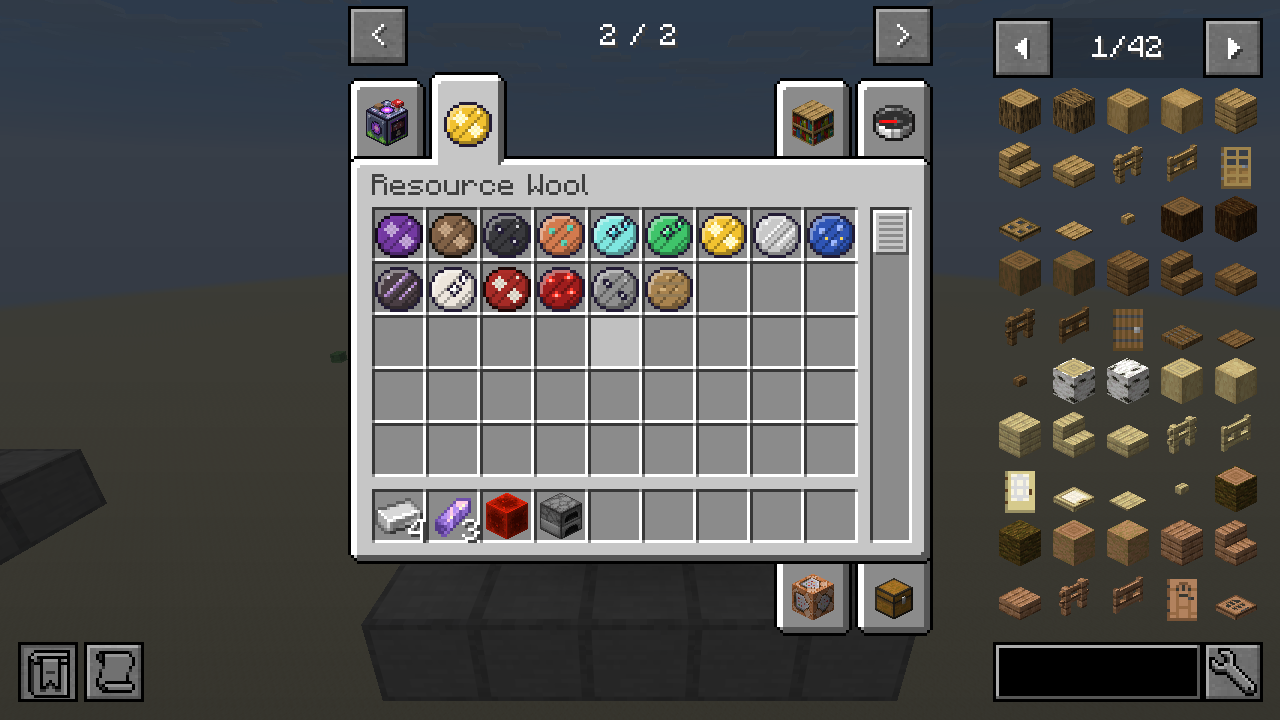
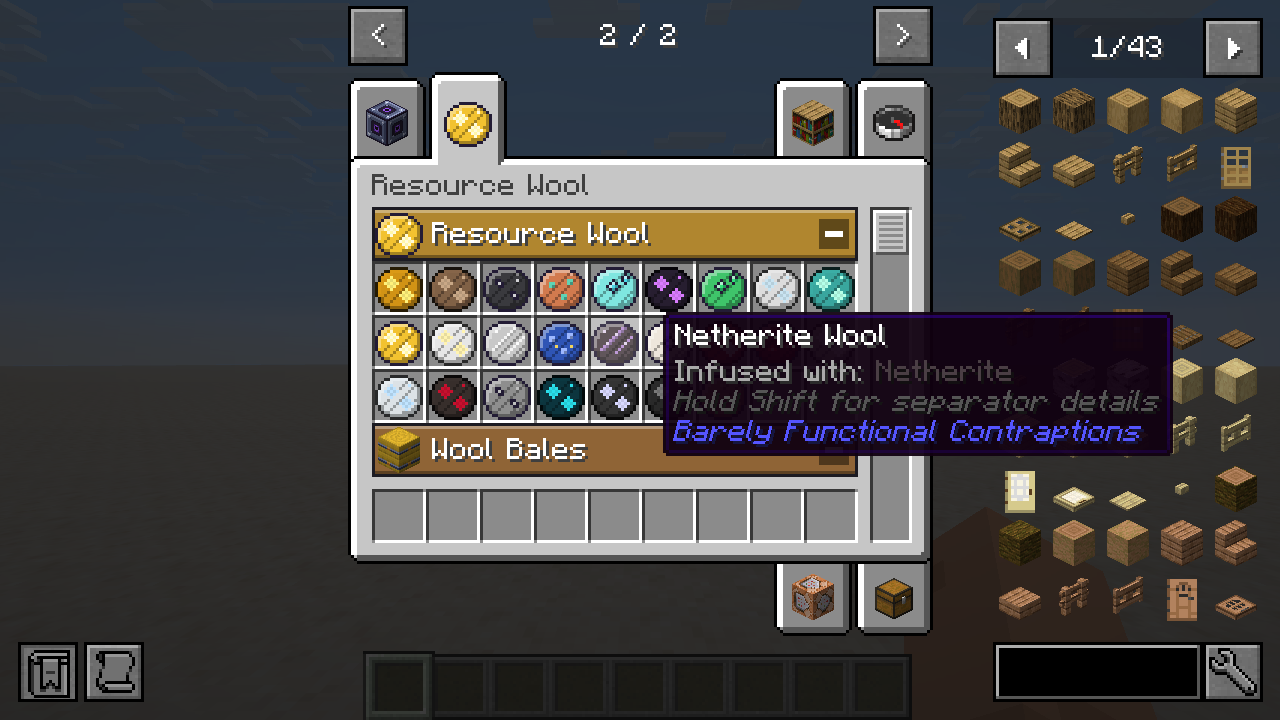
Split the Resource Wool tab into wool, bales and spawn eggs
Each under its own folding banner, like the main tab's sections. The
section code now handles any tab; the creative tab test checks both tabs'
sections and that they fill whole rows.

Claude-Session: https://claude.ai/code/session_012iurxobutw9xMP3SqHHLFE

diff --git a/src/main/java/com/jax3/barelyfunctionalcontraptions/registry/ContraptionsCreativeTab.java b/src/main/java/com/jax3/barelyfunctionalcontraptions/registry/ContraptionsCreativeTab.java
@@ -14,7 +14,7 @@ import net.minecraft.world.item.CreativeModeTabs;
 import net.minecraft.world.item.ItemStack;
 import net.neoforged.neoforge.registries.DeferredRegister;
 
-/** The mod's creative tabs: machines and tools in the manual's sections, then all the resource wool, Wool Bales and resource sheep spawn eggs. */
+/** The mod's creative tabs: machines and tools in the manual's sections, then all the resource wool, Wool Bales and resource sheep spawn eggs, each in its own section. */
 public final class ContraptionsCreativeTab {
     public static final DeferredRegister<CreativeModeTab> REGISTER = DeferredRegister.create(Registries.CREATIVE_MODE_TAB, BarelyFunctionalContraptions.MOD_ID);
 
@@ -25,10 +25,25 @@ public final class ContraptionsCreativeTab {
      * to the end of the row so the next section starts on a new row. The client draws the banners and lets them fold
      * the section away ({@code CreativeTabSections}).
      */
-    public record Section(String key, Supplier<ItemStack> icon, Supplier<List<ItemStack>> items) {
-        /** The section's title: the Contraptions Manual tab of the same name. */
+    public record Section(String key, String titleKey, int colour, Supplier<ItemStack> icon, Supplier<List<ItemStack>> items) {
         public Component title() {
-            return Component.translatable("guide.barelyfunctionalcontraptions.tab." + key);
+            return Component.translatable(titleKey);
+        }
+    }
+
+    /** A main tab section, titled after the Contraptions Manual tab of the same name. */
+    private static Section guide(String key, int colour, Supplier<ItemStack> icon, Supplier<List<ItemStack>> items) {
+        return new Section(key, "guide.barelyfunctionalcontraptions.tab." + key, colour, icon, items);
+    }
+
+    /** Puts the sections in a tab: each one's banner row, its items, then blanks to the end of the row. */
+    private static void accept(CreativeModeTab.Output output, List<Section> sections) {
+        int blanks = 0;
+        for (Section section : sections) {
+            for (int column = 0; column < ROW; column++) output.accept(placeholder(section.key(), column), CreativeModeTab.TabVisibility.PARENT_TAB_ONLY);
+            List<ItemStack> items = section.items().get();
+            items.forEach(output::accept);
+            for (int i = items.size(); i % ROW != 0; i++) output.accept(placeholder("", blanks++), CreativeModeTab.TabVisibility.PARENT_TAB_ONLY);
         }
     }
 
@@ -38,7 +53,7 @@ public final class ContraptionsCreativeTab {
 
     /** The main tab's sections, as the Contraptions Manual sorts the machines. */
     public static final List<Section> SECTIONS = List.of(
-            new Section("power", () -> new ItemStack(com.jax3.barelyfunctionalcontraptions.sheep.registry.ModItems.HUME_ENERGY_CUBE.get()), items(
+            guide("power", 0xFFB8792A, () -> new ItemStack(com.jax3.barelyfunctionalcontraptions.sheep.registry.ModItems.HUME_ENERGY_CUBE.get()), items(
                     com.jax3.barelyfunctionalcontraptions.sheep.registry.ModItems.GLOW_PANEL,
                     com.jax3.barelyfunctionalcontraptions.sheep.registry.ModItems.GLOW_LAMP,
                     com.jax3.barelyfunctionalcontraptions.sheep.registry.ModItems.WOOL_BURNER,
@@ -47,21 +62,21 @@ public final class ContraptionsCreativeTab {
                     com.jax3.barelyfunctionalcontraptions.sheep.registry.ModItems.ZERO_POINT_ENERGY_MODULE,
                     com.jax3.barelyfunctionalcontraptions.sheep.registry.ModItems.HUME_ENERGY_CUBE,
                     com.jax3.barelyfunctionalcontraptions.sheep.registry.ModItems.CREATIVE_GENERATOR)),
-            new Section("logistics", () -> new ItemStack(com.jax3.barelyfunctionalcontraptions.sheep.registry.ModItems.ITEM_PIPE.get()), items(
+            guide("logistics", 0xFF2E86A0, () -> new ItemStack(com.jax3.barelyfunctionalcontraptions.sheep.registry.ModItems.ITEM_PIPE.get()), items(
                     com.jax3.barelyfunctionalcontraptions.sheep.registry.ModItems.ENERGY_CABLE,
                     com.jax3.barelyfunctionalcontraptions.sheep.registry.ModItems.ENERGY_METER,
                     com.jax3.barelyfunctionalcontraptions.sheep.registry.ModItems.FLUID_TANK,
                     com.jax3.barelyfunctionalcontraptions.sheep.registry.ModItems.FLUID_PIPE,
                     com.jax3.barelyfunctionalcontraptions.sheep.registry.ModItems.ITEM_PIPE,
                     com.jax3.barelyfunctionalcontraptions.sheep.registry.ModItems.WOOL_PACKER)),
-            new Section("production", () -> new ItemStack(com.jax3.barelyfunctionalcontraptions.sheep.registry.ModItems.MECHANICAL_SEPARATOR.get()), items(
+            guide("production", 0xFF468F46, () -> new ItemStack(com.jax3.barelyfunctionalcontraptions.sheep.registry.ModItems.MECHANICAL_SEPARATOR.get()), items(
                     com.jax3.barelyfunctionalcontraptions.sheep.registry.ModItems.INFUSION_ALTAR,
                     com.jax3.barelyfunctionalcontraptions.sheep.registry.ModItems.POWERED_FURNACE,
                     com.jax3.barelyfunctionalcontraptions.sheep.registry.ModItems.CHILLER,
                     com.jax3.barelyfunctionalcontraptions.sheep.registry.ModItems.MECHANICAL_SEPARATOR,
                     com.jax3.barelyfunctionalcontraptions.sheep.registry.ModItems.AUTOMATIC_SHEARS,
                     com.jax3.barelyfunctionalcontraptions.sheep.registry.ModItems.FLUID_RESERVOIR)),
-            new Section("utility", () -> new ItemStack(com.jax3.barelyfunctionalcontraptions.mycelial.registry.ModItems.MYCELIUM_WRENCH.get()), items(
+            guide("utility", 0xFF7552AE, () -> new ItemStack(com.jax3.barelyfunctionalcontraptions.mycelial.registry.ModItems.MYCELIUM_WRENCH.get()), items(
                     com.jax3.barelyfunctionalcontraptions.sheep.registry.ModItems.CONTRAPTIONS_MANUAL,
                     com.jax3.barelyfunctionalcontraptions.sheep.registry.ModItems.FUNCTIONAL_MACHINE_BLOCK,
                     com.jax3.barelyfunctionalcontraptions.mycelial.registry.ModItems.MYCELIUM_WRENCH,
@@ -70,6 +85,30 @@ public final class ContraptionsCreativeTab {
                     com.jax3.barelyfunctionalcontraptions.sheep.registry.ModItems.WOOLLEN_CHESTPLATE,
                     com.jax3.barelyfunctionalcontraptions.sheep.registry.ModItems.WOOLLEN_LEGGINGS,
                     com.jax3.barelyfunctionalcontraptions.sheep.registry.ModItems.WOOLLEN_BOOTS)));
+
+    /** The loaded sheep resources, or the built-in ones before a world (and its data packs) is loaded. */
+    private static List<net.minecraft.resources.Identifier> resourceIds() {
+        SheepResourceRegistry loaded = SheepResourceRegistry.client();
+        return loaded.isEmpty() ? BUILT_IN_WOOL.stream().map(BarelyFunctionalContraptions::id).toList()
+                : loaded.all().stream().map(SheepResource::id).toList();
+    }
+
+    /** The Resource Wool tab's sections. */
+    public static final List<Section> WOOL_SECTIONS = List.of(
+            new Section("wool", "itemGroup.barelyfunctionalcontraptions.section.wool", 0xFFB0862F,
+                    () -> ResourceWoolItem.create(BarelyFunctionalContraptions.id("gold"), 1),
+                    () -> resourceIds().stream().map(id -> ResourceWoolItem.create(id, 1)).toList()),
+            new Section("bales", "itemGroup.barelyfunctionalcontraptions.section.bales", 0xFF8F6436,
+                    () -> com.jax3.barelyfunctionalcontraptions.sheep.items.WoolBaleItem.create(BarelyFunctionalContraptions.id("gold"), 1),
+                    () -> resourceIds().stream().map(id -> com.jax3.barelyfunctionalcontraptions.sheep.items.WoolBaleItem.create(id, 1)).toList()),
+            new Section("eggs", "itemGroup.barelyfunctionalcontraptions.section.eggs", 0xFF3F8A72,
+                    () -> com.jax3.barelyfunctionalcontraptions.sheep.items.ResourceSheepSpawnEggItem.create(BarelyFunctionalContraptions.id("gold"), 1),
+                    () -> resourceIds().stream().map(id -> com.jax3.barelyfunctionalcontraptions.sheep.items.ResourceSheepSpawnEggItem.create(id, 1)).toList()));
+
+    /** Each sectioned tab with its sections. */
+    public static List<java.util.Map.Entry<Supplier<CreativeModeTab>, List<Section>>> sectionedTabs() {
+        return List.of(java.util.Map.entry(MAIN, SECTIONS), java.util.Map.entry(RESOURCE_WOOL, WOOL_SECTIONS));
+    }
 
     /** A banner (a section's key, one per column) or blank (an empty key) placeholder. */
     public static ItemStack placeholder(String section, int index) {
@@ -91,16 +130,8 @@ public final class ContraptionsCreativeTab {
             .title(Component.translatable("itemGroup." + BarelyFunctionalContraptions.MOD_ID))
             .withTabsBefore(CreativeModeTabs.SPAWN_EGGS)
             .icon(() -> new ItemStack(ModBlocks.FUNCTIONAL_MACHINE_BLOCK.get()))
-            .displayItems((params, output) -> {
-                // Split into the Contraptions Manual's sections, each under a banner row (see Section).
-                int blanks = 0;
-                for (Section section : SECTIONS) {
-                    for (int column = 0; column < ROW; column++) output.accept(placeholder(section.key(), column), CreativeModeTab.TabVisibility.PARENT_TAB_ONLY);
-                    List<ItemStack> items = section.items().get();
-                    items.forEach(output::accept);
-                    for (int i = items.size(); i % ROW != 0; i++) output.accept(placeholder("", blanks++), CreativeModeTab.TabVisibility.PARENT_TAB_ONLY);
-                }
-            })
+            // Split into the Contraptions Manual's sections, each under a banner row (see Section).
+            .displayItems((params, output) -> accept(output, SECTIONS))
             .build());
 
     /**
@@ -111,17 +142,9 @@ public final class ContraptionsCreativeTab {
             .title(Component.translatable("itemGroup." + BarelyFunctionalContraptions.MOD_ID + ".resource_wool"))
             .withTabsBefore(BarelyFunctionalContraptions.id("main"))
             .icon(() -> ResourceWoolItem.create(BarelyFunctionalContraptions.id("gold"), 1))
-            .displayItems((params, output) -> {
-                SheepResourceRegistry loaded = SheepResourceRegistry.client();
-                List<net.minecraft.resources.Identifier> ids = loaded.isEmpty()
-                        ? BUILT_IN_WOOL.stream().map(BarelyFunctionalContraptions::id).toList()
-                        : loaded.all().stream().map(SheepResource::id).toList();
-                ids.forEach(id -> output.accept(ResourceWoolItem.create(id, 1)));
-                // Then a bale of each.
-                ids.forEach(id -> output.accept(com.jax3.barelyfunctionalcontraptions.sheep.items.WoolBaleItem.create(id, 1)));
-                // Then a spawn egg of each, for a sheep that comes already infused.
-                ids.forEach(id -> output.accept(com.jax3.barelyfunctionalcontraptions.sheep.items.ResourceSheepSpawnEggItem.create(id, 1)));
-            })
+            // Every resource's wool, then a bale of each, then a spawn egg of each (a sheep that comes already infused),
+            // each section under its own banner.
+            .displayItems((params, output) -> accept(output, WOOL_SECTIONS))
             .build());
 
     private ContraptionsCreativeTab() {}

diff --git a/src/main/java/com/jax3/barelyfunctionalcontraptions/sheep/client/CreativeTabSections.java b/src/main/java/com/jax3/barelyfunctionalcontraptions/sheep/client/CreativeTabSections.java
@@ -6,7 +6,6 @@ import java.lang.reflect.Field;
 import java.util.ArrayList;
 import java.util.HashSet;
 import java.util.List;
-import java.util.Map;
 import java.util.Set;
 import net.minecraft.client.Minecraft;
 import net.minecraft.client.gui.GuiGraphicsExtractor;
@@ -19,17 +18,16 @@ import net.neoforged.neoforge.client.event.ScreenEvent;
 import org.jspecify.annotations.Nullable;
 
 /**
- * The main creative tab's sections, drawn the way the Contraptions Manual sorts the machines: each section starts on
+ * The creative tabs' sections: the main tab sorted the way the Contraptions Manual sorts the machines, and the
+ * Resource Wool tab split into wool, bales and spawn eggs. Each section starts on
  * its own row under a coloured banner with its icon and title, and clicking the banner folds the section away (or
  * opens it again). The tab holds placeholder stacks for the banner rows and the blanks after each section
- * ({@link ContraptionsCreativeTab#SECTIONS}); here they're drawn over, kept out of tooltips, and can't be taken.
+ * ({@link ContraptionsCreativeTab#sectionedTabs()}); here they're drawn over, kept out of tooltips, and can't be taken.
  * Folded sections are remembered until the game closes.
  */
 public final class CreativeTabSections {
     /** The 9x5 grid of the creative screen's item picker. */
     private static final int ROW = 9, GRID = 45, SLOT = 18;
-    private static final Map<String, Integer> COLOURS = Map.of(
-            "power", 0xFFB8792A, "logistics", 0xFF2E86A0, "production", 0xFF468F46, "utility", 0xFF7552AE);
     private static final Set<String> folded = new HashSet<>();
     private static @Nullable Field scrollField;
 
@@ -39,20 +37,31 @@ public final class CreativeTabSections {
         return stack.isEmpty() ? null : ContraptionsCreativeTab.section(stack);
     }
 
-    /** Whether the open creative screen shows the main tab: only it holds section placeholders. */
-    private static boolean showsSections(CreativeModeInventoryScreen screen) {
+    /** The section with this key, in any sectioned tab. */
+    private static ContraptionsCreativeTab.@Nullable Section info(String key) {
+        for (var tab : ContraptionsCreativeTab.sectionedTabs()) {
+            for (var section : tab.getValue()) if (section.key().equals(key)) return section;
+        }
+        return null;
+    }
+
+    /** The sectioned tab the open creative screen shows, found by its first banner, or null for any other tab. */
+    private static net.minecraft.world.item.@Nullable CreativeModeTab shownTab(CreativeModeInventoryScreen screen) {
         for (ItemStack stack : screen.getMenu().items) {
             TabSection section = section(stack);
-            if (section != null && section.isBanner()) return true;
+            if (section == null || !section.isBanner()) continue;
+            for (var tab : ContraptionsCreativeTab.sectionedTabs()) {
+                if (tab.getValue().stream().anyMatch(s -> s.key().equals(section.section()))) return tab.getKey().get();
+            }
         }
-        return false;
+        return null;
     }
 
     /** The tab's stacks, leaving out what's under folded banners (the banners themselves always stay). */
-    private static List<ItemStack> visible() {
+    private static List<ItemStack> visible(net.minecraft.world.item.CreativeModeTab tab) {
         List<ItemStack> visible = new ArrayList<>();
         String current = "";
-        for (ItemStack stack : ContraptionsCreativeTab.MAIN.get().getDisplayItems()) {
+        for (ItemStack stack : tab.getDisplayItems()) {
             TabSection section = section(stack);
             if (section != null && section.isBanner()) {
                 current = section.section();
@@ -79,8 +88,10 @@ public final class CreativeTabSections {
     /** Keeps the grid in step with the folded sections: the screen refills it from the whole tab whenever it opens it. */
     @SubscribeEvent
     public static void onRender(ScreenEvent.Render.Pre event) {
-        if (!(event.getScreen() instanceof CreativeModeInventoryScreen screen) || !showsSections(screen)) return;
-        List<ItemStack> want = visible();
+        if (!(event.getScreen() instanceof CreativeModeInventoryScreen screen)) return;
+        var tab = shownTab(screen);
+        if (tab == null) return;
+        List<ItemStack> want = visible(tab);
         var items = screen.getMenu().items;
         boolean same = items.size() == want.size();
         for (int i = 0; same && i < want.size(); i++) same = items.get(i) == want.get(i);
@@ -92,7 +103,7 @@ public final class CreativeTabSections {
 
     @SubscribeEvent
     public static void onForeground(ScreenEvent.Render.Foreground event) {
-        if (!(event.getScreen() instanceof CreativeModeInventoryScreen screen) || !showsSections(screen)) return;
+        if (!(event.getScreen() instanceof CreativeModeInventoryScreen screen) || shownTab(screen) == null) return;
         GuiGraphicsExtractor graphics = event.getGuiGraphics();
         var font = Minecraft.getInstance().font;
         List<Slot> slots = screen.getMenu().slots;
@@ -100,12 +111,11 @@ public final class CreativeTabSections {
             Slot slot = slots.get(i);
             TabSection section = section(slot.getItem());
             if (section == null || !section.isBanner()) continue;
-            ContraptionsCreativeTab.Section info = ContraptionsCreativeTab.SECTIONS.stream()
-                    .filter(s -> s.key().equals(section.section())).findFirst().orElse(null);
+            ContraptionsCreativeTab.Section info = info(section.section());
             if (info == null) continue;
             int x = screen.getLeftPos() + slot.x - 1, y = screen.getTopPos() + slot.y - 1, w = ROW * SLOT, h = SLOT;
             boolean hovered = event.getMouseX() >= x && event.getMouseX() < x + w && event.getMouseY() >= y && event.getMouseY() < y + h;
-            int colour = COLOURS.getOrDefault(info.key(), 0xFF6A6A6A);
+            int colour = info.colour();
             if (hovered) colour = blend(colour, 0xFFFFFFFF, 0.18F);
             graphics.fill(x, y, x + w, y + h, 0xFF1C1B22);                      // frame
             graphics.fill(x + 1, y + 1, x + w - 1, y + h - 1, colour);

diff --git a/src/main/java/com/jax3/barelyfunctionalcontraptions/sheep/gametest/ModGameTests.java b/src/main/java/com/jax3/barelyfunctionalcontraptions/sheep/gametest/ModGameTests.java
@@ -3676,7 +3676,15 @@ public final class ModGameTests {
         var level = h.getLevel();
         net.minecraft.world.item.CreativeModeTabs.tryRebuildTabContents(level.enabledFeatures(), true, level.registryAccess());
         var main = com.jax3.barelyfunctionalcontraptions.registry.ContraptionsCreativeTab.MAIN.get().getDisplayItems();
-        var wool = com.jax3.barelyfunctionalcontraptions.registry.ContraptionsCreativeTab.RESOURCE_WOOL.get().getDisplayItems();
+        // Leave out the section banners and blanks (an invisible placeholder item), and check each tab has them.
+        var allWool = com.jax3.barelyfunctionalcontraptions.registry.ContraptionsCreativeTab.RESOURCE_WOOL.get().getDisplayItems();
+        var wool = allWool.stream().filter(s -> !s.is(ModItems.TAB_SECTION.get())).toList();
+        java.util.function.Function<java.util.Collection<ItemStack>, java.util.List<String>> banners = stacks -> stacks.stream()
+                .map(com.jax3.barelyfunctionalcontraptions.registry.ContraptionsCreativeTab::section)
+                .filter(s -> s != null && s.isBanner() && s.index() == 0).map(com.jax3.barelyfunctionalcontraptions.registry.TabSection::section).toList();
+        h.assertTrue(banners.apply(main).equals(java.util.List.of("power", "logistics", "production", "utility")), "the main tab's sections, got " + banners.apply(main));
+        h.assertTrue(banners.apply(allWool).equals(java.util.List.of("wool", "bales", "eggs")), "the wool tab's sections, got " + banners.apply(allWool));
+        h.assertTrue(main.size() % 9 == 0 && allWool.size() % 9 == 0, "every section fills whole rows");
         h.assertTrue(main.stream().noneMatch(s -> s.is(ModItems.RESOURCE_WOOL.get())), "no resource wool in the main tab");
         h.assertTrue(main.stream().anyMatch(s -> s.is(ModItems.MECHANICAL_SEPARATOR.get()))
                 && main.stream().anyMatch(s -> s.is(ModItems.HUME_ENERGY_CUBE.get())), "machines stay in the main tab");

diff --git a/src/main/java/com/jax3/barelyfunctionalcontraptions/sheep/client/DevScreenshotHarness.java b/src/main/java/com/jax3/barelyfunctionalcontraptions/sheep/client/DevScreenshotHarness.java
@@ -148,7 +148,17 @@ public final class DevScreenshotHarness {
                 case 112 -> CreativeTabSections.toggle("power");
                 case 130 -> shot(mc, "28_creative_tab_main_folded");
                 case 132 -> CreativeTabSections.toggle("power");
-                case 135 -> mc.stop();
+                case 140 -> openCreativeTab(mc, com.jax3.barelyfunctionalcontraptions.registry.ContraptionsCreativeTab.RESOURCE_WOOL.get());
+                case 170 -> shot(mc, "27_creative_tab_wool");
+                case 172 -> CreativeTabSections.toggle("wool");
+                case 190 -> shot(mc, "27_creative_tab_wool_folded");
+                case 192 -> CreativeTabSections.toggle("bales"); // wool and bales folded: the eggs
+                case 210 -> shot(mc, "27_creative_tab_eggs");
+                case 212 -> {
+                    CreativeTabSections.toggle("wool");
+                    CreativeTabSections.toggle("bales");
+                }
+                case 215 -> mc.stop();
                 default -> {}
             }
             return;

diff --git a/src/main/java/com/jax3/barelyfunctionalcontraptions/sheep/command/GeneratorItemFilter.java b/src/main/java/com/jax3/barelyfunctionalcontraptions/sheep/command/GeneratorItemFilter.java
@@ -59,7 +59,9 @@ public record GeneratorItemFilter(@Nullable Set<Item> tabItems, List<Identifier>
                 ResourcefulSheep.LOGGER.warn("[generator] allowedCreativeTabs: unknown creative tab '{}' ignored", id);
                 continue;
             }
-            for (ItemStack stack : tab.get().getDisplayItems()) items.add(stack.getItem());
+            for (ItemStack stack : tab.get().getDisplayItems()) {
+                if (com.jax3.barelyfunctionalcontraptions.registry.ContraptionsCreativeTab.section(stack) == null) items.add(stack.getItem()); // not a section placeholder
+            }
         }
         return new GeneratorItemFilter(Set.copyOf(items), List.copyOf(tabs), requireStackable);
     }

diff --git a/docs/CURSEFORGE.md b/docs/CURSEFORGE.md
@@ -129,7 +129,7 @@ All 25 built-in sheep:
 
 ![All 25 built-in resource sheep standing in rows, each labelled with its resource](https://raw.githubusercontent.com/JAX3/Barely-Functional-Contraptions/main/docs/screenshots/showcase_sheep.png)
 
-![The Resource Wool creative tab scrolled to its end: Wool Bales, then a spawn egg in each sheep's wool colour, with the Redstone Sheep Spawn Egg's tooltip](https://raw.githubusercontent.com/JAX3/Barely-Functional-Contraptions/main/docs/screenshots/showcase_tab_eggs.png)
+![The Resource Wool creative tab with its Resource Wool and Wool Bales sections folded, showing the Spawn Eggs section: an egg in each sheep's wool colour](https://raw.githubusercontent.com/JAX3/Barely-Functional-Contraptions/main/docs/screenshots/showcase_tab_eggs.png)
 
 ### Infusion Altar
 
@@ -173,7 +173,7 @@ Placed on an infinite water source, it makes a bucket of water a second and push
 
 Every machine is built round a Functional Machine Block, crafted from iron, copper and redstone. Generators make FE, sheep grow resources, and Mushroom sheep feed the generators. Sneak-right-click a sheep with an empty hand to see what it is infused with.
 
-The mod's creative tab is split into the same sections as the manual. Click a section's banner to fold it away, or open it again.
+The mod's creative tab is split into the same sections as the manual, and the Resource Wool tab into wool, bales and spawn eggs. Click a section's banner to fold it away, or open it again.
 
 ![The mod's creative tab split into the manual's sections, each under a coloured banner with a fold button: Power, Logistics and Production](https://raw.githubusercontent.com/JAX3/Barely-Functional-Contraptions/main/docs/screenshots/showcase_tab_main.png)
 
@@ -195,7 +195,7 @@ While you wear the **Woollen Boots** you're **Muffled**: you make no sound, from
 
 Sheep, Wool Burner fuels, furnace heat sources and separator recipes are all data. `/barelyfunctionalcontraptions generate` makes a sheep for every material in the modpack, and every number can be changed in the config (see *Make it your own* above).
 
-![The Resource Wool creative tab: a wool for every built-in sheep, then a Wool Bale of each](https://raw.githubusercontent.com/JAX3/Barely-Functional-Contraptions/main/docs/screenshots/showcase_tab_wool.png)
+![The Resource Wool creative tab in sections: Resource Wool, a wool for every built-in sheep, then the Wool Bales banner](https://raw.githubusercontent.com/JAX3/Barely-Functional-Contraptions/main/docs/screenshots/showcase_tab_wool.png)
 
 ---
 

diff --git a/README.md b/README.md
@@ -123,7 +123,7 @@ All 25 built-in sheep:
 
 ![All 25 built-in resource sheep standing in rows, each labelled with its resource](docs/screenshots/showcase_sheep.png)
 
-![The Resource Wool creative tab scrolled to its end: Wool Bales, then a spawn egg in each sheep's wool colour, with the Redstone Sheep Spawn Egg's tooltip](docs/screenshots/showcase_tab_eggs.png)
+![The Resource Wool creative tab with its Resource Wool and Wool Bales sections folded, showing the Spawn Eggs section: an egg in each sheep's wool colour](docs/screenshots/showcase_tab_eggs.png)
 
 ### Infusion Altar
 
@@ -167,7 +167,7 @@ Placed on an infinite water source, it makes a bucket of water a second and push
 
 Every machine is built round a Functional Machine Block, crafted from iron, copper and redstone. Generators make FE, sheep grow resources, and Mushroom sheep feed the generators. Sneak-right-click a sheep with an empty hand to see what it is infused with.
 
-The mod's creative tab is split into the same sections as the manual. Click a section's banner to fold it away, or open it again.
+The mod's creative tab is split into the same sections as the manual, and the Resource Wool tab into wool, bales and spawn eggs. Click a section's banner to fold it away, or open it again.
 
 ![The mod's creative tab split into the manual's sections, each under a coloured banner with a fold button: Power, Logistics and Production](docs/screenshots/showcase_tab_main.png)
 
@@ -189,7 +189,7 @@ While you wear the **Woollen Boots** you're **Muffled**: you make no sound, from
 
 Sheep, Wool Burner fuels, furnace heat sources and separator recipes are all data. `/barelyfunctionalcontraptions generate` makes a sheep for every material in the modpack, and every number can be changed in the config (see *Make it your own* above).
 
-![The Resource Wool creative tab: a wool for every built-in sheep, then a Wool Bale of each](docs/screenshots/showcase_tab_wool.png)
+![The Resource Wool creative tab in sections: Resource Wool, a wool for every built-in sheep, then the Wool Bales banner](docs/screenshots/showcase_tab_wool.png)
 
 ---
 

diff --git a/docs/REFERENCE.md b/docs/REFERENCE.md
@@ -55,11 +55,11 @@ The integration is covered by GameTests, which run in [`IntegrationGameTests`](.
 
 ![Machine fronts, idle and running](screenshots/14_machine_fronts.png)
 
-The main creative tab is split into the Contraptions Manual's sections (Power, Logistics, Production and Utility), each starting on its own row under a coloured banner with the tab's icon and title. Clicking a banner folds that section away or opens it again; folded sections stay folded until the game closes. The banner rows and the blanks after each section are an invisible placeholder item (`barelyfunctionalcontraptions:tab_section`) that the tab won't let you take, and that JEI and the search tab leave out.
+The main creative tab is split into the Contraptions Manual's sections (Power, Logistics, Production and Utility), each starting on its own row under a coloured banner with the tab's icon and title. The Resource Wool tab is split the same way into *Resource Wool*, *Wool Bales* and *Spawn Eggs*. Clicking a banner folds that section away or opens it again; folded sections stay folded until the game closes. The banner rows and the blanks after each section are an invisible placeholder item (`barelyfunctionalcontraptions:tab_section`) that the tab won't let you take, and that JEI and the search tab leave out.
 
 | Creative tab: machines and tools | Creative tab: Resource Wool |
 |---|---|
-| ![Main creative tab, in sections](screenshots/28_creative_tab_main.png) | ![Resource Wool creative tab](screenshots/27_creative_tab_wool.png) |
+| ![Main creative tab, in sections](screenshots/28_creative_tab_main.png) | ![Resource Wool creative tab, in sections](screenshots/27_creative_tab_wool.png) |
 
 ### Contraptions Manual (in-game guide)
 Craft a **Contraptions Manual** (a book and a Functional Machine Block) and right-click it to read about everything in the mod in game. Its chapters are sorted into six tabs along the top of the left panel:
